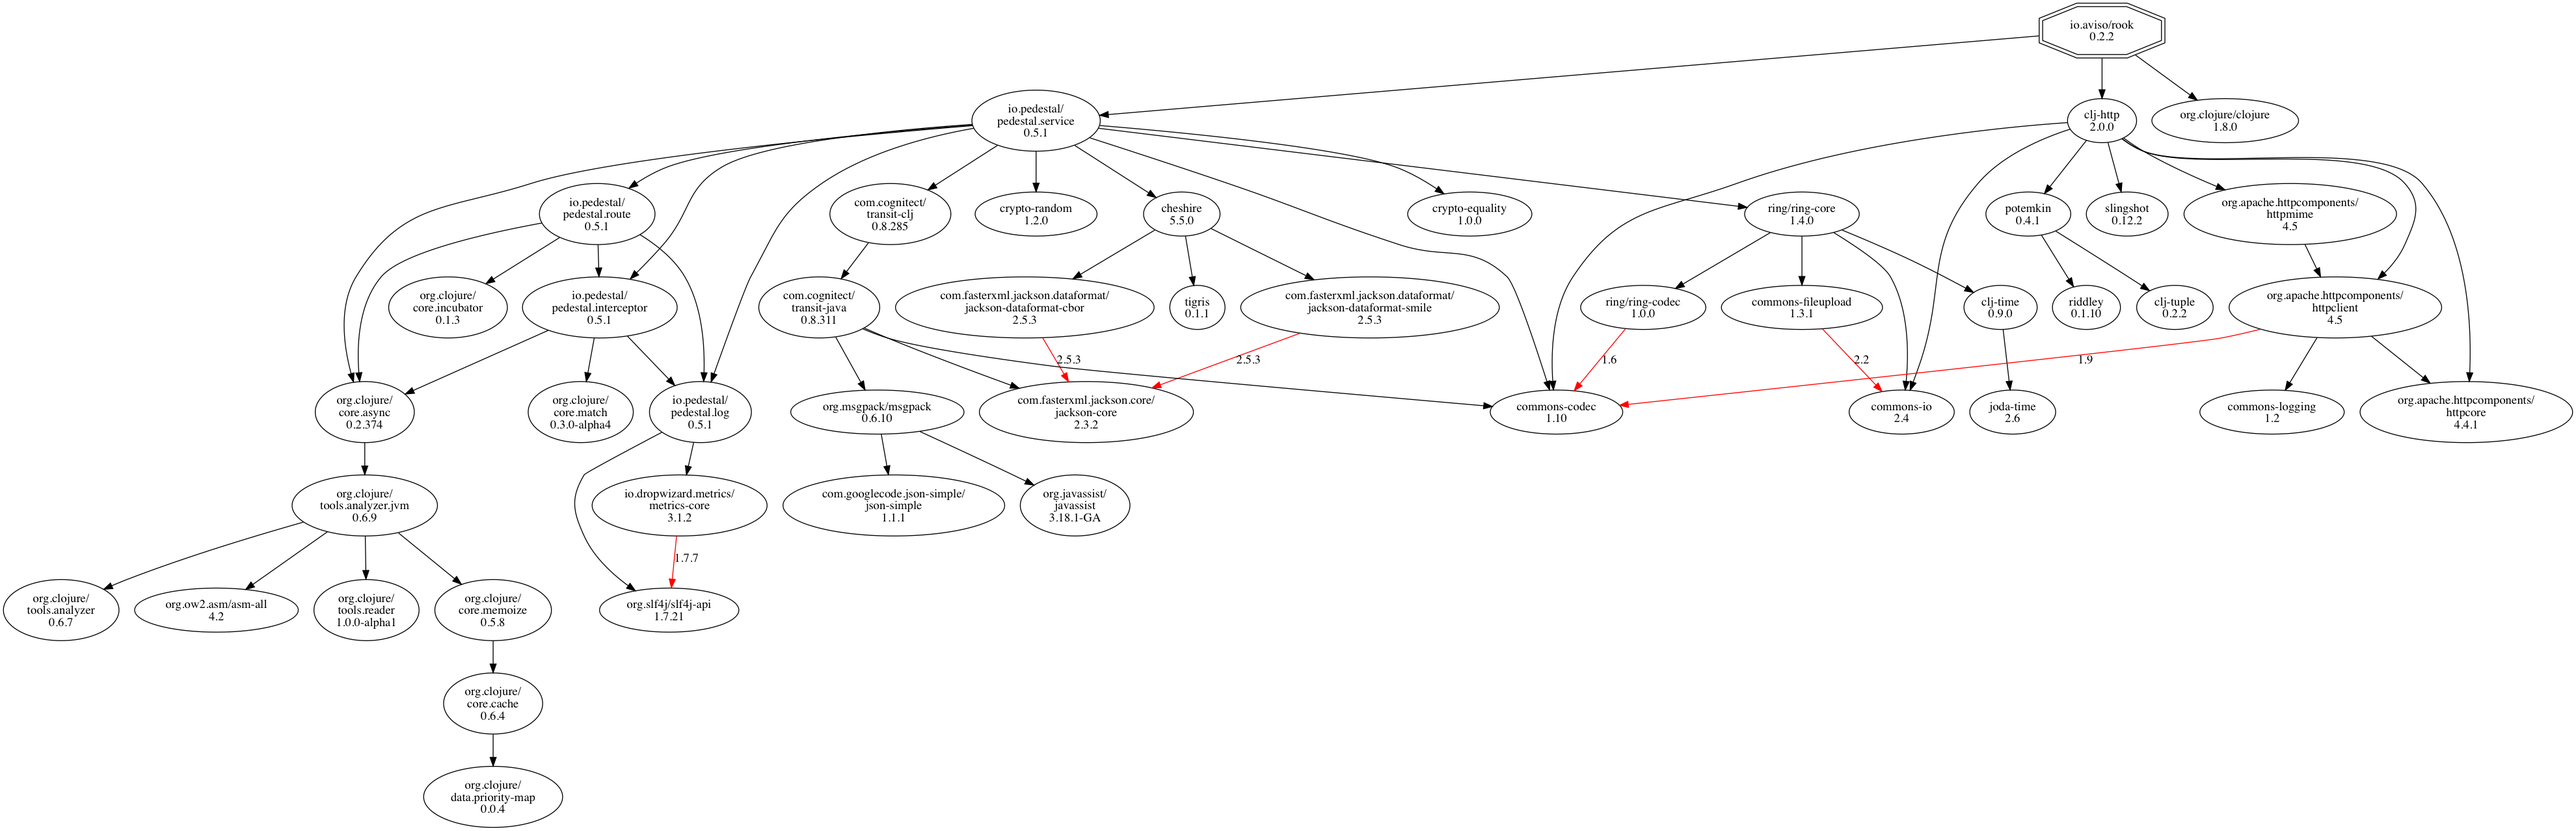
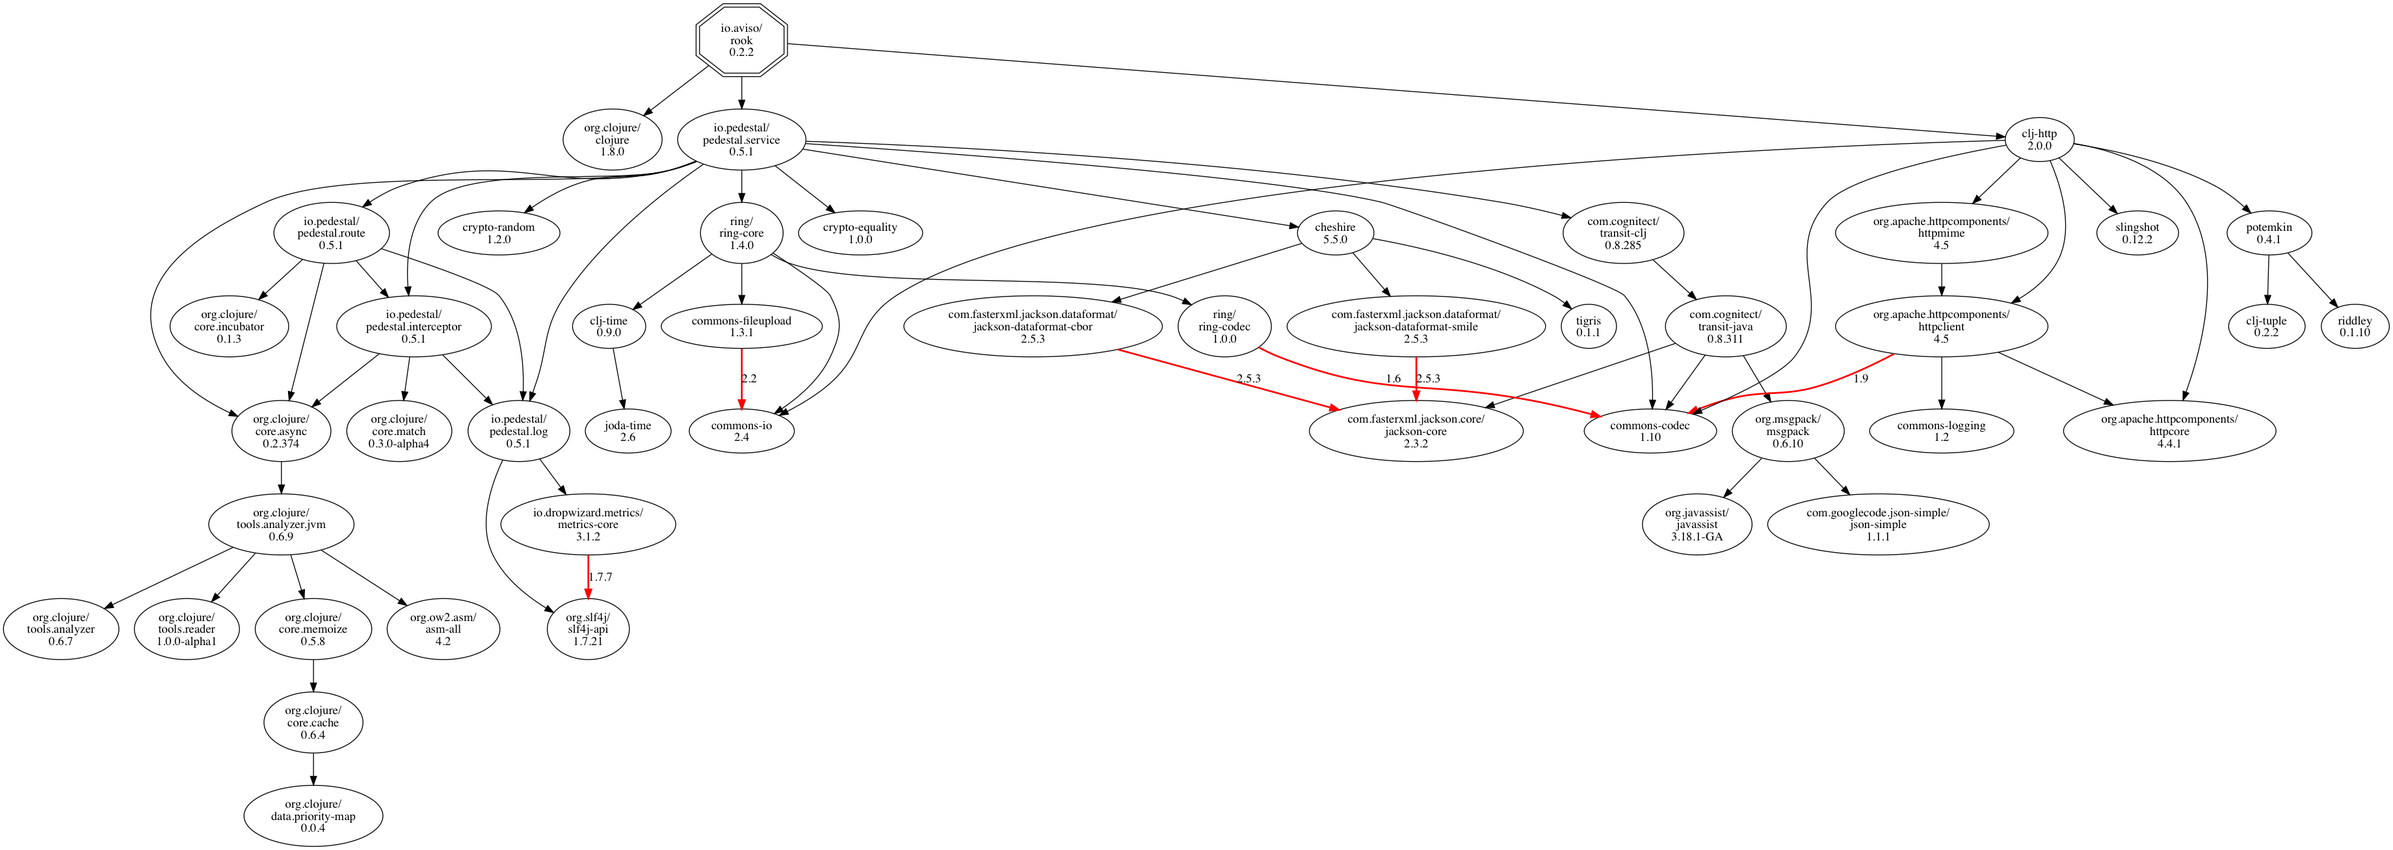
Update the docs to describe vizconflicts

diff --git a/README.md b/README.md
@@ -11,7 +11,7 @@ Here's an example of a relatively small project:
 
 A single artifact may be
 a transitive dependency of multiple other artifacts.
-*vizdeps* can show this (`lein deps :tree` doesn't), and will highlight in red any dependencies
+`vizdeps` can show this (`lein deps :tree` doesn't), and will highlight in red any dependencies
 with a version mismatch.
 This can make it *much* easier to identify version conflicts and provide the best
 exclusions and overrides.
@@ -24,10 +24,18 @@ trees more readable.
 To keep the graph from getting any more cluttered, the `org.clojure/clojure` artifact
 is treated specially (just the dependency from the project root is shown).
 
+The `--prune` is used when managing version conflicts; it removes uninteresting artifacts.
+Those that remain either have a version conflict (such as `commons-codec`, below) or
+transitively depend on an artifact with such a conflict:
+
+![rook-purged](images/rook-pruned.png)
+
 ## Usage
 
-Put `[walmartlabs/vizdeps "0.1.3"]` into the `:plugins` vector of your `:user`
+Put `[walmartlabs/vizdeps "0.1.4"]` into the `:plugins` vector of your `:user`
 profile.
+
+### vizdeps task
 
 ```
 Usage: lein vizdeps [options]
@@ -36,14 +44,41 @@ Options:
   -o, --output-file FILE    target/dependencies.pdf  Output file path. Extension chooses format: pdf or png.
   -s, --save-dot                                     Save the generated GraphViz DOT file well as the output file.
   -n, --no-view                                      If given, the image will not be opened after creation.
-  -H, --highlight ARTIFACT                           Highlight the artifact, and any dependencies to it, in blue.
+  -H, --highlight ARTIFACT                           Highlight the artifact, and any dependencies to it, in blue. Repeatable.
   -v, --vertical                                     Use a vertical, not horizontal, layout.
   -d, --dev                                          Include :dev dependencies in the graph.
   -p, --prune                                        Exclude artifacts and dependencies that do not involve version conflicts.
   -h, --help                                         This usage summary.
 ```
 
-The --highlight option can be repeated; any artifact that contains any of the provided strings will be highlighted.
+The `--highlight` option can be repeated; any artifact that contains any of the provided strings will be highlighted.
+
+## vizconflicts task
+
+```
+Usage: lein vizconflicts [options]
+
+Options:
+  -o, --output-file FILE  target/conflicts.pdf  Output file path. Extension chooses format: pdf or png.
+  -X, --exclude NAME                            Exclude any project whose name matches the value. Repeatable.
+  -s, --save-dot                                Save the generated GraphViz DOT file well as the output file.
+  -n, --no-view                                 If given, the image will not be opened after creation.
+  -h, --help                                    This usage summary.
+```
+
+`vizconflicts` is used in concert with [lein-sub](https://github.com/kumarshantanu/lein-sub) to analyze
+dependencies between and across a multi-module project.
+
+When different versions of the same artifact are in use, the output chart will include a diagram of how that
+artifact is used across the different module:
+
+![conflicts](images/conflicts.png)
+
+The lines in each chart identify dependencies; solid lines are explicit dependencies,
+dotted lines are transitive dependencies.
+
+When one version is the majority, it is highlighted in blue (and other versions are
+drawn in red).
 
 ## License
 
